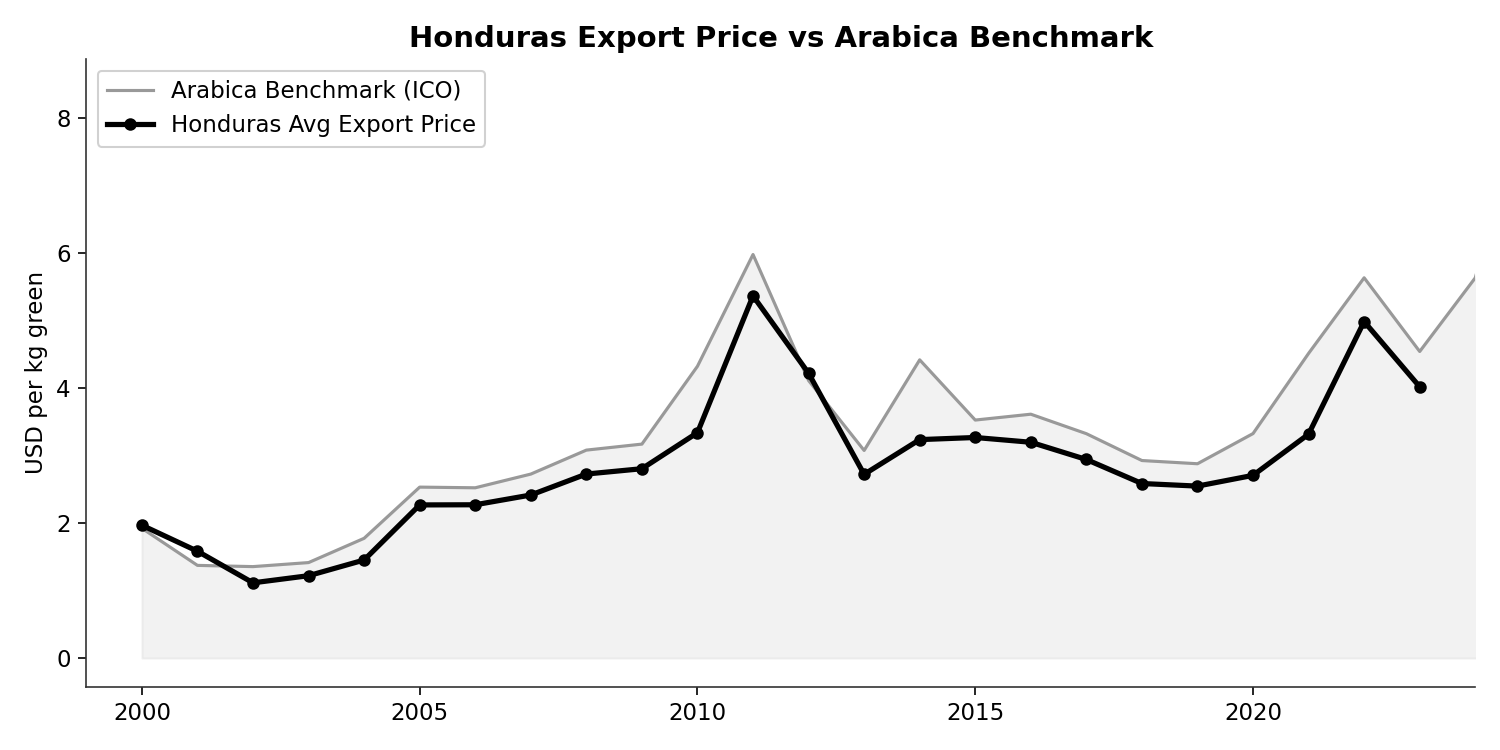
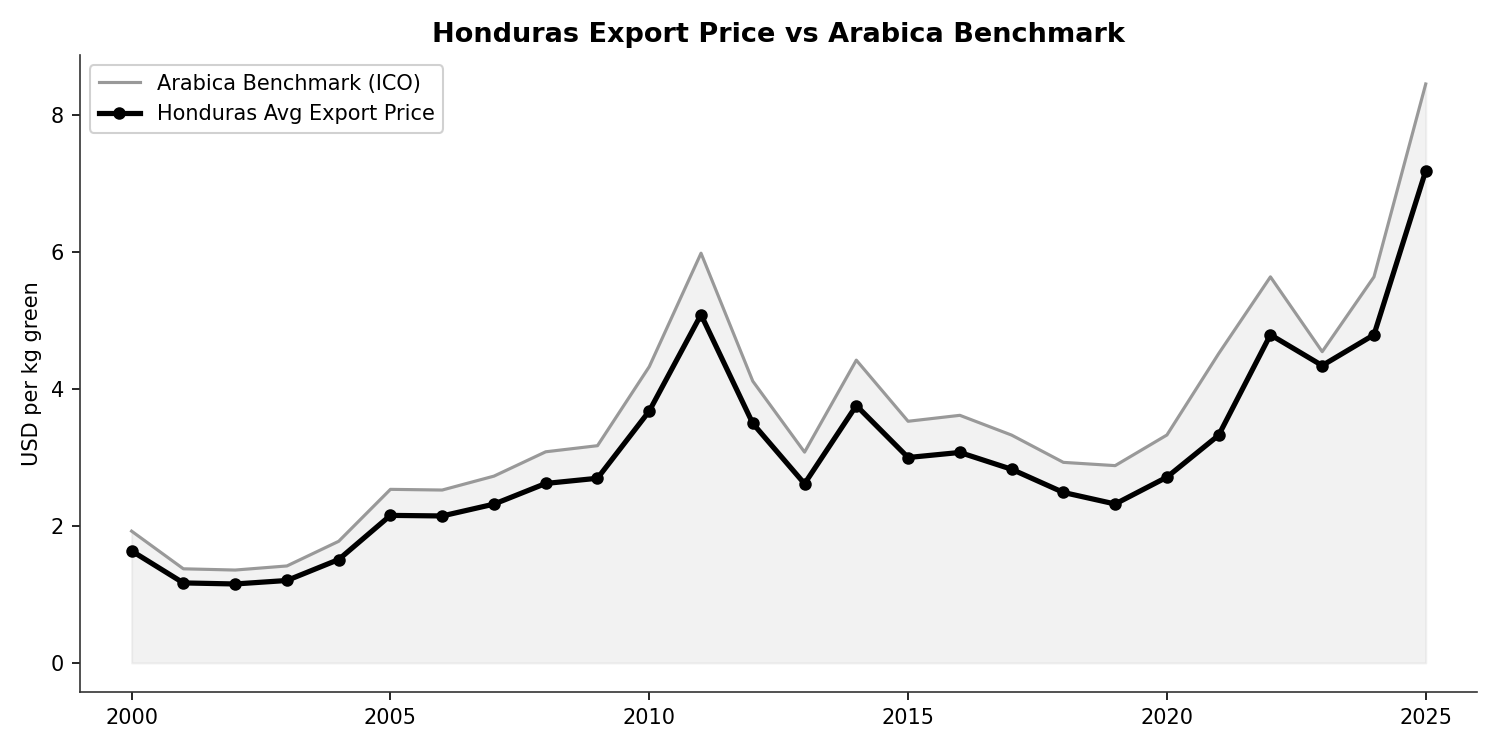
feat: rebuild Honduras case study with supply curve and improved data
Regenerated all 6 country charts with improved COMTRADE prices.
Added the global supply curve chart showing Honduras at $4.79/kg,
4.8% market share, positioned in the middle of the curve. Updated
all numbers to reflect actual COMTRADE HS 090111 data. Removed
special characters that could cause rendering issues.

diff --git a/case-studies/honduras.md b/case-studies/honduras.md
@@ -10,15 +10,15 @@
 
 Honduras is not a country most people associate with coffee. It has no Juan Valdez, no Yirgacheffe, no global brand recognition. Yet Honduras is the largest coffee producer in Central America and the sixth-largest in the world. In 2017 it produced 7.6 million bags — more than Guatemala, Costa Rica, Nicaragua, El Salvador, Peru, and Mexico individually. Coffee is the country's most important agricultural export, and the sector employs an estimated 1 million people in a country of 11 million.
 
-The growth was rapid and recent. In 1990, Honduras produced about 1.7 million bags. By 2017, it had more than quadrupled. The expansion was driven by smallholder farmers responding to favorable prices and government programs that encouraged coffee planting — particularly in the western highlands (Copán, Ocotepeque, Lempira) and the central corridor (Comayagua, La Paz). Unlike Vietnam's state-engineered boom, Honduras's growth was more organic: thousands of farmers individually deciding that coffee was a better bet than maize or beans.
+The growth was rapid and recent. In 1990, Honduras produced about 1.7 million bags. By 2017, it had more than quadrupled. The expansion was driven by smallholder farmers responding to favorable prices and government programs that encouraged coffee planting — particularly in the western highlands (Copan, Ocotepeque, Lempira) and the central corridor (Comayagua, La Paz). Unlike Vietnam's state-engineered boom, Honduras's growth was more organic: thousands of farmers individually deciding that coffee was a better bet than maize or beans.
 
 Then the setbacks came in waves. Coffee leaf rust (la roya) hit Central America hard in 2012-2013, devastating yields across the region. Honduras lost an estimated 25% of its production capacity. Farmers replanted with rust-resistant varieties, and by 2016-2017 production had recovered to new highs. But in November 2020, Hurricanes Eta and Iota struck Honduras in rapid succession — two Category 4 storms within two weeks. The storms destroyed infrastructure, flooded farms, and displaced hundreds of thousands of people. Coffee production dropped from 6.5 million bags in 2020 to 4.8 million in 2021.
 
-The recovery since has been uneven. Production has stabilized around 5-5.8 million bags — well below the 2017 peak. Whether Honduras can return to its pre-hurricane trajectory depends on continued replanting, input access, and whether global prices remain high enough to justify the investment.
+The recovery since has been partial. Production has stabilized at 5-5.8 million bags — about 76% of the 2017 peak. Whether Honduras can return to its pre-hurricane trajectory depends on continued replanting, input access, and whether global prices remain high enough to justify the investment.
 
 Honduras's central tension is different from the other cases in this course. It is not about institutional design (Colombia), market structure (Vietnam), quality positioning (Rwanda), or traceability (Ethiopia). It is about **resilience** — how a smallholder-dominated, export-dependent coffee sector weathers the compounding shocks of climate change, disease, and natural disaster in one of the most vulnerable countries in the hemisphere.
 
-The country has a GDP per capita of roughly $3,400 — lower than Guatemala, and less than half of Colombia's. Over 40% of the population is rural. Agriculture accounts for about 11% of GDP but a much larger share of rural employment. Coffee is not just an export commodity — it is a livelihood anchor for some of the poorest communities in the Western Hemisphere.
+The country has a GDP per capita of roughly $3,400 — lower than Guatemala, less than half of Colombia's. Over 40% of the population is rural. Agriculture accounts for about 11% of GDP but a much larger share of rural employment. Coffee is not just an export commodity — it is a livelihood anchor for some of the poorest communities in the Western Hemisphere.
 
 ---
 
@@ -28,17 +28,17 @@ Honduras's coffee value chain follows the typical Central American pattern: smal
 
 **Actors:**
 
-**~120,000 coffee farmers**
-The vast majority cultivate small plots (1-5 hectares) in mountainous terrain at 1,000-1,500 meters altitude. Almost all production is Arabica — Honduras produces zero Robusta. Farms are family-operated, with hired labor during the harvest season (November-March). Most farmers sell cherry or wet parchment rather than processed green coffee.
+**Around 120,000 coffee farmers**
+The vast majority cultivate small plots (1-5 hectares) in mountainous terrain at 1,000-1,500 meters altitude. All production is Arabica — Honduras produces zero Robusta. Farms are family-operated, with hired labor during the harvest season (November-March). Most farmers sell cherry or wet parchment rather than processed green coffee.
 
 **Intermediaries and cooperatives**
 A mix of private intermediaries (coyotes) and farmer cooperatives aggregate coffee from scattered smallholdings. Cooperatives have grown in importance — organizations like COMSA, COCAFCAL, and IHCAFE-affiliated groups operate wet mills and connect farmers to specialty buyers. But a significant share of volume still moves through private intermediaries, particularly in more remote areas.
 
-**IHCAFE (Instituto Hondureño del Café)**
+**IHCAFE (Instituto Hondureno del Cafe)**
 The national coffee institute, funded by a levy on exports. Provides extension services, research, quality programs, and market information. Not a buyer or exporter — its role is enabling, similar to Colombia's FNC but with less market intervention.
 
 **Exporters**
-A concentrated export sector. The largest exporters handle the majority of volume and connect Honduran coffee to the global market through the port of Puerto Cortés on the Caribbean coast.
+A concentrated export sector handles the majority of volume and connects Honduran coffee to the global market through the port of Puerto Cortes on the Caribbean coast.
 
 **Importers and roasters**
 Honduras ships primarily to the US and Europe. The US is the single largest destination. Most Honduran coffee enters the commercial market (blends), though the specialty segment has grown significantly since 2010, particularly for western highland coffees.
@@ -51,13 +51,14 @@ Honduras ships primarily to the US and Europe. The US is the single largest dest
 
 Honduran farmers are estimated to receive approximately **80% of the export price** — typical for Latin American origins with competitive intermediary markets.
 
-At 2023 COMTRADE prices, Honduras's average export price was approximately **$3.32/kg green**. At an 80% farmer share, that implies a farmer price of roughly **$2.66/kg green equivalent**. With current Arabica prices far higher (the ICE "C" exceeded $3/lb or $6.60/kg in 2025), farmer prices have likely increased substantially — though rising input costs (fertilizer, labor) eat into margins.
+Honduras's average green coffee export price has risen from $2.32/kg in 2019 to $4.34/kg in 2023, tracking the global Arabica price surge. At an 80% farmer share, that implies the farmer received roughly $1.86/kg green equivalent in 2019, rising to about $3.47/kg in 2023.
 
 **Where the other 20% goes:**
+
 - **Intermediary/cooperative margin** — aggregation, transport from remote hillside farms to the wet mill or dry mill
 - **Processing costs** — wet milling (de-pulping, fermentation, washing), dry milling (hulling, grading)
 - **IHCAFE levy** — funds sector-wide extension, research, and promotion
-- **Transport to port** — from the highlands to Puerto Cortés
+- **Transport to port** — from the highlands to Puerto Cortes
 - **Export preparation** — quality control, documentation, container loading
 
 **Domestic consumption:** Honduras consumes only about 335,000 bags per year — roughly 6% of production. Almost everything is exported. This makes the sector highly exposed to global price volatility with no domestic demand buffer.
@@ -72,25 +73,30 @@ The gap between the production line and the export line is narrow — Honduras e
 
 ## Benchmark
 
+### Position on the global supply curve
+
+![Honduras on the global supply curve](../photos/supply-curve-2022-honduras.png)
+
+Honduras sits in the **middle of the global supply curve** — above the average price line, with a moderate market share. At $4.79/kg (2022) and 4.8% of global green coffee exports, Honduras earns more per kilogram than the large commodity producers (Brazil at $3.99, Vietnam at $2.09, Indonesia at $2.62) but less than the premium origins (Colombia at $6.34, Kenya at $6.53). This middle position reflects Honduras's status as a commercial Arabica origin — decent quality, competitive pricing, but no standout brand.
+
 ### Production: Central America's leader
 
 ![Honduras vs Latin American peers](../photos/honduras-vs-peers.png)
 
-Honduras produces 5,800 thousand bags (2025) — more than any Central American origin and more than Peru or Mexico. Among all global producers, Honduras ranks roughly 6th, behind Brazil, Vietnam, Colombia, Indonesia, and Ethiopia.
+Honduras produces 5,800 thousand bags (2025 estimate) — more than any Central American origin and more than Peru or Mexico. Among all global producers, Honduras ranks roughly sixth, behind Brazil, Vietnam, Colombia, Indonesia, and Ethiopia.
 
-The production trajectory shows rapid growth from the late 1990s through 2017, a crash in 2019-2021 (la roya recovery + hurricanes), and a partial recovery since.
+The production trajectory shows rapid growth from the late 1990s through 2017, a crash in 2019-2021 (la roya aftermath plus Hurricanes Eta and Iota), and a partial recovery since. Current production is about 76% of the 2017 peak.
 
-### Prices: Tracking the benchmark
+### Prices: tracking the benchmark
 
 ![Honduras export price vs Arabica benchmark](../photos/honduras-price-vs-benchmark.png)
 
-Honduras trades at or slightly below the Arabica benchmark — consistent with its position as a commercial-grade Arabica origin. The country does not command the premiums of Ethiopia or Kenya (specialty origins) or the volume discounts of Brazil (largest producer). Honduras coffee trades at roughly **C +/- $0.05/lb** — close to the benchmark with a small positive or negative differential depending on quality and market conditions.
-
-The COMTRADE data shows Honduras's average export price tracking the global benchmark closely, with notable peaks in 2011 ($5.36/kg during the commodity super-cycle) and 2021 ($3.32/kg as prices began their current surge).
+Honduras trades at or slightly below the Arabica benchmark — consistent with its position as a commercial-grade Arabica origin. The country does not command the premiums of Ethiopia or Kenya (specialty origins) or the volume discounts of Brazil (largest producer). The COMTRADE data shows Honduras closely tracking the ICO indicator, with the 2001-2003 coffee crisis, the 2011 commodity spike, and the post-2021 price surge all clearly visible.
 
 ### Yields
 
 Honduras yields approximately **0.8 MT/ha** of green coffee — mid-range among Arabica origins. For comparison:
+
 - Costa Rica: ~1.5 MT/ha (intensive management)
 - Colombia: ~1.0 MT/ha
 - **Honduras: ~0.8 MT/ha**
@@ -111,20 +117,20 @@ Agriculture's share of GDP has been remarkably stable at 11-12% over the past 25
 
 | Recommendation | Impact | Feasibility | Position |
 |---------------|--------|-------------|----------|
-| Build climate resilience (rust-resistant varieties, shade management, diversification) | High | Medium | Top priority — existential for the sector |
+| Build climate resilience (rust-resistant varieties, shade, diversification) | High | Medium | Top priority — existential for the sector |
 | Improve yields through agronomy extension | High | High | High-return, proven interventions exist |
 | Develop specialty market positioning for western highlands | Medium | Medium | Growing opportunity, some progress already |
 | Strengthen cooperative infrastructure | Medium | Medium | Improves farmer bargaining power and quality |
 | Expand domestic consumption | Low | Low | 6% domestic consumption, limited market |
 | Transfer higher share of value to farmer | Low | N/A | Already at ~80% — not the binding constraint |
 
-**Climate resilience is the top priority.** Honduras's position in the "hurricane belt" and its dependence on a single export crop make it uniquely vulnerable to compounding climate shocks. The 2020 hurricanes demonstrated that a decade of production growth can be wiped out in two weeks. Interventions include: replanting with rust-resistant and drought-tolerant varieties (already underway), shade-grown systems that reduce climate exposure, soil conservation on steep hillsides, and income diversification so that a bad coffee year doesn't mean a bad year for the household.
+**Climate resilience is the top priority.** Honduras's position in the hurricane belt and its dependence on a single export crop make it uniquely vulnerable to compounding climate shocks. The 2020 hurricanes demonstrated that a decade of production growth can be wiped out in two weeks. Interventions include: replanting with rust-resistant and drought-tolerant varieties (already underway), shade-grown systems that reduce climate exposure, soil conservation on steep hillsides, and income diversification so that a bad coffee year does not mean a bad year for the household.
 
 **Yield improvement is the highest-return intervention.** At 0.8 MT/ha, Honduras has significant room to grow. Costa Rica achieves nearly double the yield on similar terrain. Extension services (via IHCAFE), input access (particularly fertilizer, which many Honduran farmers underuse), and tree renovation (replacing old, low-yielding stock) are proven levers. The challenge is reaching 120,000 dispersed smallholders in remote highland areas.
 
-**Specialty positioning is an emerging opportunity.** Honduran coffees from Copán, Santa Bárbara, and Marcala have begun earning recognition in specialty markets. The Cup of Excellence program in Honduras has produced lots scoring above 90 points. But the infrastructure for traceability, lot separation, and quality-consistent processing is still developing. Cooperatives are the natural vehicle for this — they can aggregate small lots, maintain traceability, and connect directly with specialty buyers.
+**Specialty positioning is an emerging opportunity.** Honduran coffees from Copan, Santa Barbara, and Marcala have begun earning recognition in specialty markets. The Cup of Excellence program in Honduras has produced lots scoring above 90 points. But the infrastructure for traceability, lot separation, and quality-consistent processing is still developing. Cooperatives are the natural vehicle for this — they can aggregate small lots, maintain traceability, and connect directly with specialty buyers.
 
-**Farmer share is not the binding constraint.** At ~80% of the export price, Honduras's farmer share is typical for Latin America and well above Rwanda or Ethiopia. The problem is not that the chain captures too much value — it's that production is too vulnerable to external shocks and yields are too low.
+**Farmer share is not the binding constraint.** At ~80% of the export price, Honduras's farmer share is typical for Latin America and well above Rwanda or Ethiopia. The problem is not that the chain captures too much value — it is that production is too vulnerable to external shocks and yields are too low.
 
 ---
 
@@ -138,7 +144,7 @@ Agriculture's share of GDP has been remarkably stable at 11-12% over the past 25
 
 4. The 2020 hurricanes destroyed infrastructure and displaced populations beyond the coffee sector. When a natural disaster hits a coffee-dependent region, should value chain interventions focus narrowly on coffee recovery, or should they address the broader livelihood context? What are the tradeoffs?
 
-5. Honduras's specialty coffee segment is growing but still small. Design a realistic strategy for increasing the share of Honduran coffee sold as specialty (currently <10% of volume). What infrastructure, institutions, and market relationships would need to be built? What can Honduras learn from Rwanda's quality-focused approach?
+5. Honduras's specialty coffee segment is growing but still small. Design a realistic strategy for increasing the share of Honduran coffee sold as specialty (currently less than 10% of volume). What infrastructure, institutions, and market relationships would need to be built? What can Honduras learn from Rwanda's quality-focused approach?
 
 ---
 
